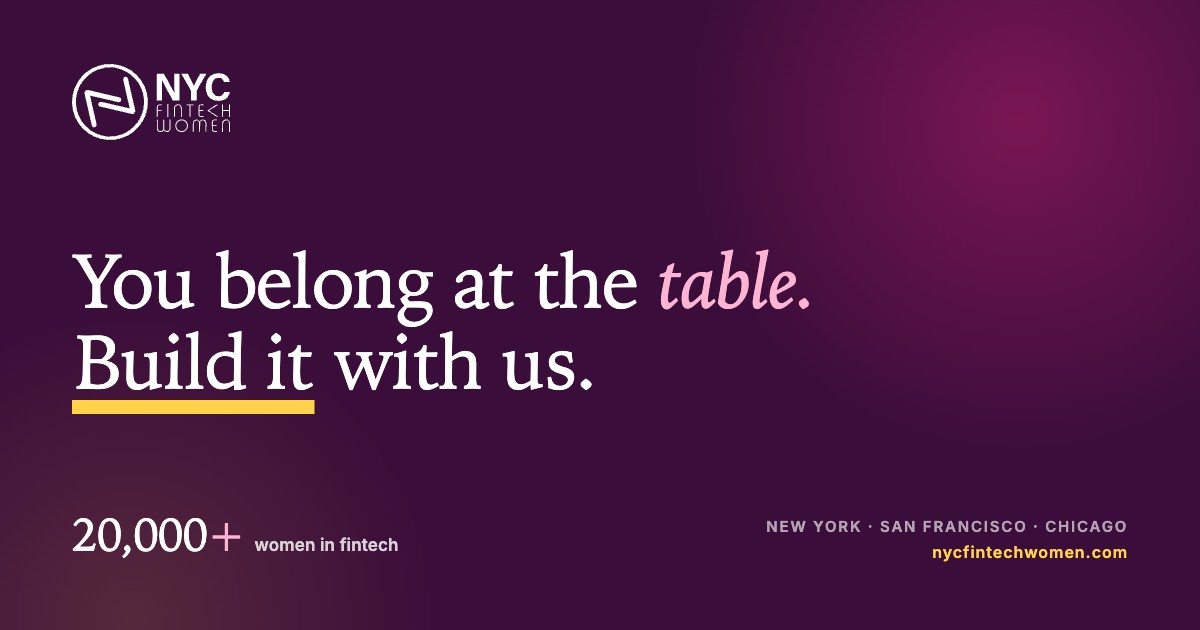
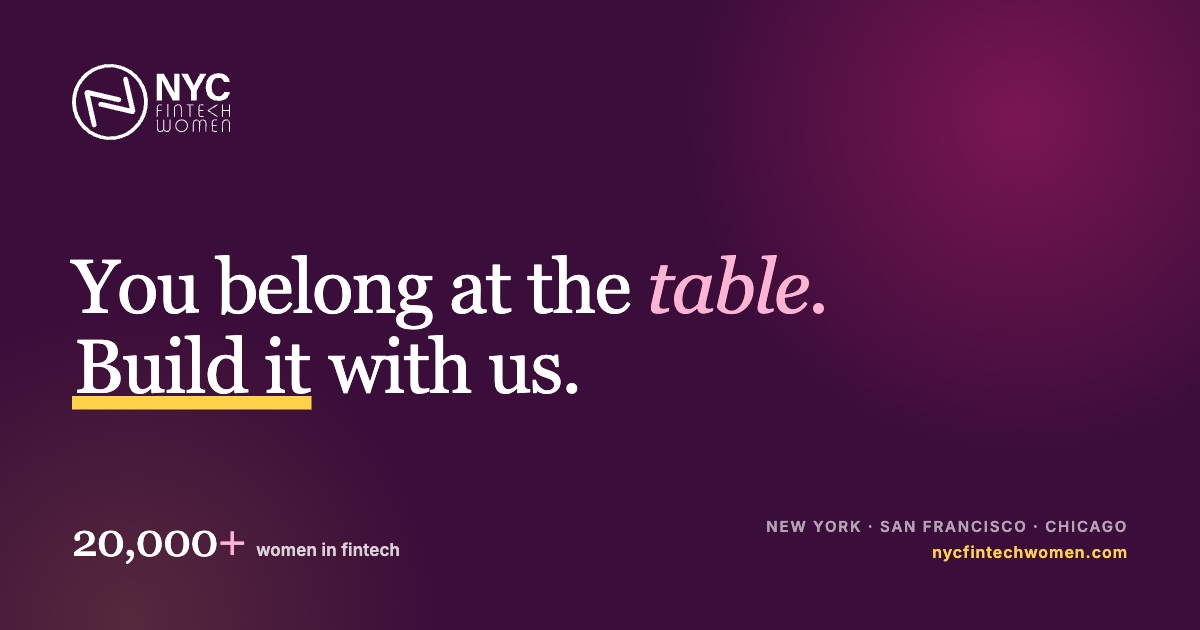
Rebake the share card in Georgia so it matches the site again
The card was deliberately set in Iowan Old Style because that was what
the site actually rendered on macOS. The site now sets Georgia outright,
so the card had drifted out of step with the pages it represents.

Regenerated at 1200x630 from the updated template. The hand-set line
breaks still hold: Georgia is marginally narrower than Iowan, so nothing
rewrapped.

This also retires the "regenerate on a Mac only" rule. Iowan is an Apple
system font and could never be fetched, so the headline silently fell
back to Georgia anywhere else. Georgia ships on macOS, Windows and iOS,
so the card can now be rebaked on any of them.

Scrapers cache aggressively, so the new card will not appear everywhere
until the pages are re-scraped — LinkedIn Post Inspector forces it.

Changed region(s): [[0.0617, 0.3921, 0.7092, 0.6635], [0.0617, 0.8143, 0.3392, 0.9048]]

diff --git a/tools/social-card.html b/tools/social-card.html
@@ -20,11 +20,12 @@
     re-share a link to bust the scrapers' caches (LinkedIn Post Inspector,
     Slack will re-unfurl after a while).
 
-  FONT WARNING, read before regenerating. The headline is set in Iowan Old
-  Style, which is a macOS SYSTEM font — it is not loaded over the network and
-  cannot be. Regenerate this card on a Mac. On Linux or in CI the headline
-  silently falls back to Georgia and the card will look wrong in a way no
-  error reports. Only Inter, used for the small sans text, comes from Google.
+  FONTS. The headline is Georgia, the same face site.css now sets for all
+  display type. Georgia ships on macOS, Windows and iOS, so this card can be
+  regenerated on any of them and will look the same — the old "regenerate on a
+  Mac only" rule died with Iowan Old Style on 2026-11-17. Only Inter, used for
+  the small sans text, comes from Google. If you regenerate on Linux or in CI,
+  check the headline: Georgia is usually absent there and it will fall back.
 -->
 <link rel="preconnect" href="https://fonts.googleapis.com">
 <link rel="preconnect" href="https://fonts.gstatic.com" crossorigin>
@@ -38,12 +39,12 @@
     --plum: #3b0d3a;
     --accent: #ffd24a;
     --pink-light: #ffb4d3;
-    /* Iowan Old Style FIRST, which is the opposite order to site.css.
-       Deliberate: site.css lists Fraunces first but nothing ever loads it, so
-       what the site actually renders — and what the brand reads as — is Iowan
-       Old Style. The card is a baked image, so it must match what people see
-       on the site, not what the stylesheet aspires to. */
-    --font-display: 'Iowan Old Style', 'GT Sectra', Georgia, serif;
+    /* Matches src/site.css exactly. It did not always: this card used to lead
+       with Iowan Old Style because site.css asked for Fraunces and never
+       loaded it, so Iowan was what visitors actually saw. Since 2026-11-17 the
+       site sets Georgia outright, so card and site agree again. The card is a
+       baked image and must match what people see on the site. */
+    --font-display: Georgia, 'Times New Roman', serif;
     --font-sans: 'Inter', -apple-system, BlinkMacSystemFont, system-ui, sans-serif;
   }
   * { box-sizing: border-box; margin: 0; padding: 0; }
@@ -88,9 +89,10 @@
     line-height: 1.06;
     letter-spacing: -0.02em;
     /* No max-width. The line breaks are set by hand with <br>, and a measure
-       in ch is wrong here: Iowan Old Style is noticeably wider than the
-       Fraunces this was first drawn in, so a ch-based cap wrapped "table."
-       onto a line of its own. */
+       in ch is wrong here — a ch-based cap once wrapped "table." onto a line
+       of its own. Georgia is marginally narrower than the Iowan this was last
+       baked in (705px vs 715px for the first line at 68px), so the hand-set
+       breaks still hold. Re-check them if the headline text changes. */
   }
   h1 em { font-style: italic; font-weight: 400; color: var(--pink-light); }
 
